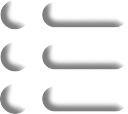
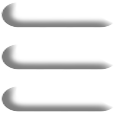
Minor responsive fixes
mostly hacks to make it presentable

diff --git a/media-query.css b/media-query.css
@@ -250,7 +250,7 @@ border-radius:10px;
   }
 
 }
-@media screen and (max-width:768px) {
+@media screen and (max-width:817px) {
   header{
     /*background: purple;*/
 }
@@ -289,7 +289,7 @@ border-radius:10px;
     background: #E2804F;
   }
   #donate-m a{
-    font-size: 1.6em;
+    font-size: 1.3em;
     line-height: 45px;
     text-align: center;
     color:white;
@@ -301,13 +301,17 @@ border-radius:10px;
   	height: 64px;
 
   }
-  #social-m img {
-  margin-left: 30%;
-  width: 50px;
-  margin-top: 6px;
-
+  .facebook-m img {
+    margin-left: 22%;
+    width: 34%;
+    margin-top: 2px;
   }
 
+  .twitter-m img {
+    margin-left: 50%;
+    width: 34%;
+    margin-top: 2px;
+  }
   .twitter-m  {
     float:left;
     width:50%;
@@ -334,6 +338,7 @@ border-radius:10px;
   /*mobile nav bar*/
   .jquery-title {
   	background:#63897a;/* dark turquoise */
+    height: 65px;
   	padding: 14px 24px;
   	display:inherit;
   }

diff --git a/header.php b/header.php
@@ -82,12 +82,12 @@ $('.flexslider').flexslider();
 <div id = "social-m">
 	   <div class = "twitter-m">
 			 <a href="https://twitter.com/FreedomProject3" target="#">
-				 <img src="<?php bloginfo('stylesheet_directory'); ?>/images/twitter.png" alt=""/>
+				 <img src="<?php bloginfo('stylesheet_directory'); ?>/images/twitter.png" alt="twitter"/>
 			 </a>
 		</div>
 		<div class = "facebook-m">
 			<a href="https://www.facebook.com/FreedomProjectSeattle" target="#">
-				<img src="<?php bloginfo('stylesheet_directory'); ?>/images/facebook.png" alt=""/>
+				<img src="<?php bloginfo('stylesheet_directory'); ?>/images/facebook.png" alt="facebook"/>
 			</a>
 
 	</div>
@@ -99,7 +99,7 @@ $('.flexslider').flexslider();
 <!-- START NAVIGATION -->
 
 	<div class="jquery-nav">
-				<h4 class="jquery-title"><a href="#">Drop-Down Menu<div class="menu-icon"><img src="<?php bloginfo('template_url'); ?>/images/icon-menu.png"></div></a></h4>
+				<h4 class="jquery-title"><a href="#"><div class="menu-icon"><img src="<?php bloginfo('template_url'); ?>/images/icon-menu.png"></div></a></h4>
 				<?php wp_nav_menu(array('menu' => 'Main Menu')); ?>
 			</div>
 

diff --git a/footer.php b/footer.php
@@ -4,9 +4,9 @@
 
 <footer>
     <p>
-    <ul> 
+    <ul>
         <li><?php print ("&copy; " . date ('Y') . " "); ?> . Freedom Project . Design by SCC Group 2</li>
-    </ul> 
+    </ul>
         <?php wp_loginout(); ?>
     </p>
 </footer>
@@ -26,7 +26,7 @@
 
 		jQuery(window).resize(function(){
 
-			if (jQuery(window).width() > 800) {
+			if (jQuery(window).width() > 830) {
 				jQuery(".menu-main-menu-container").css('display', 'block');
 			}
 
